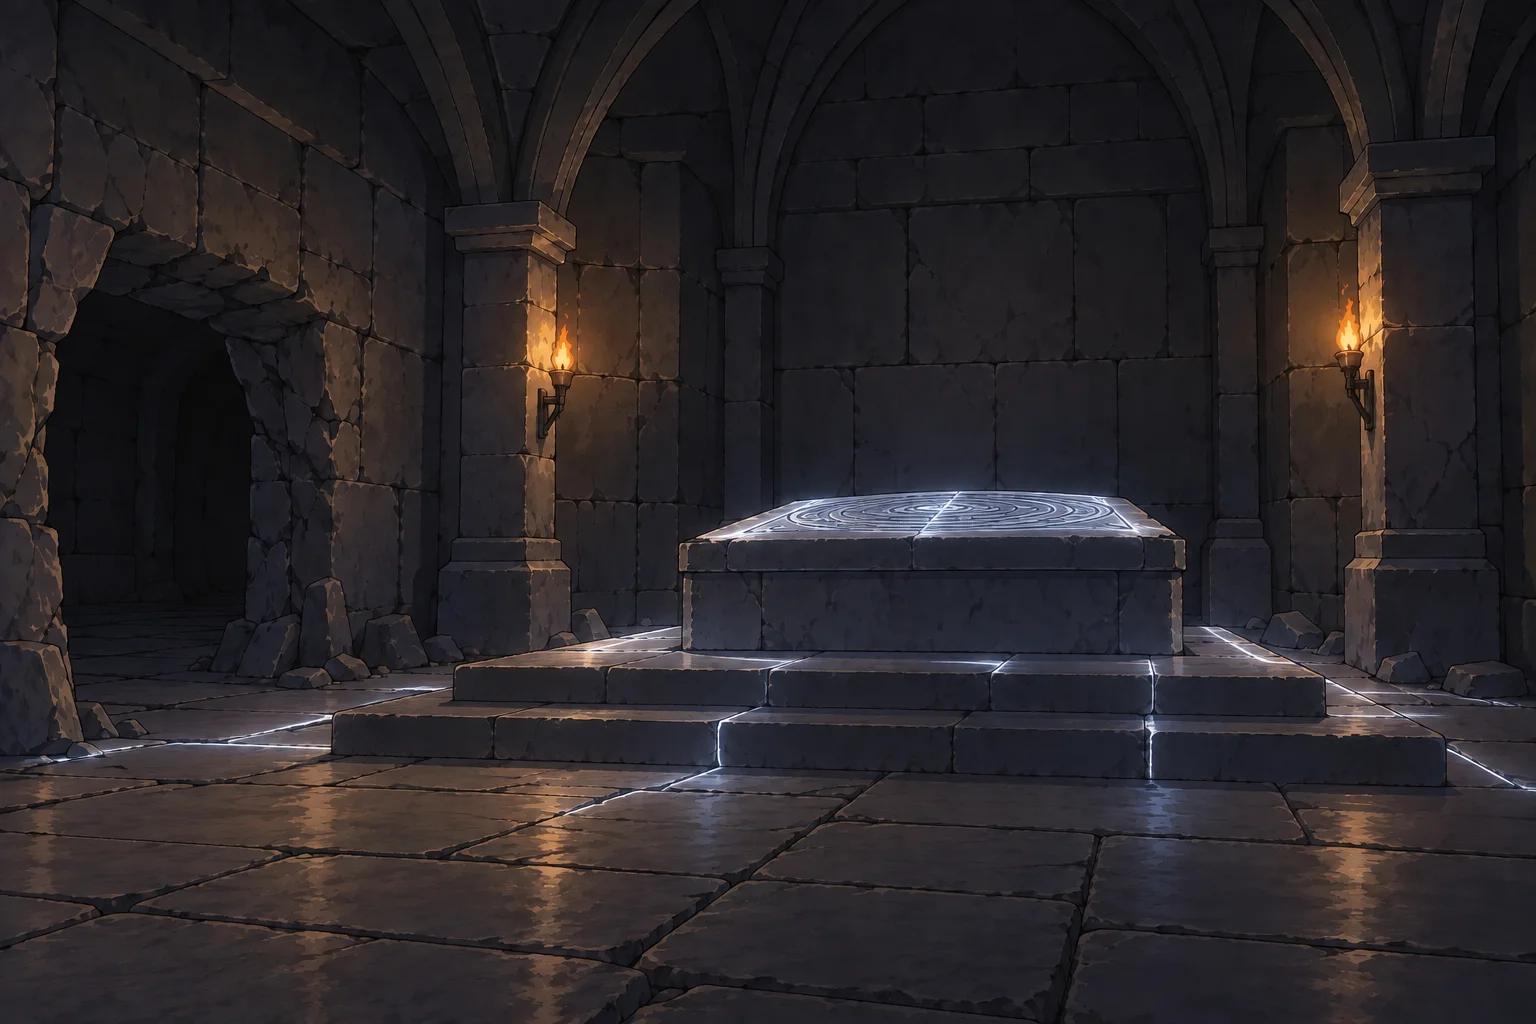
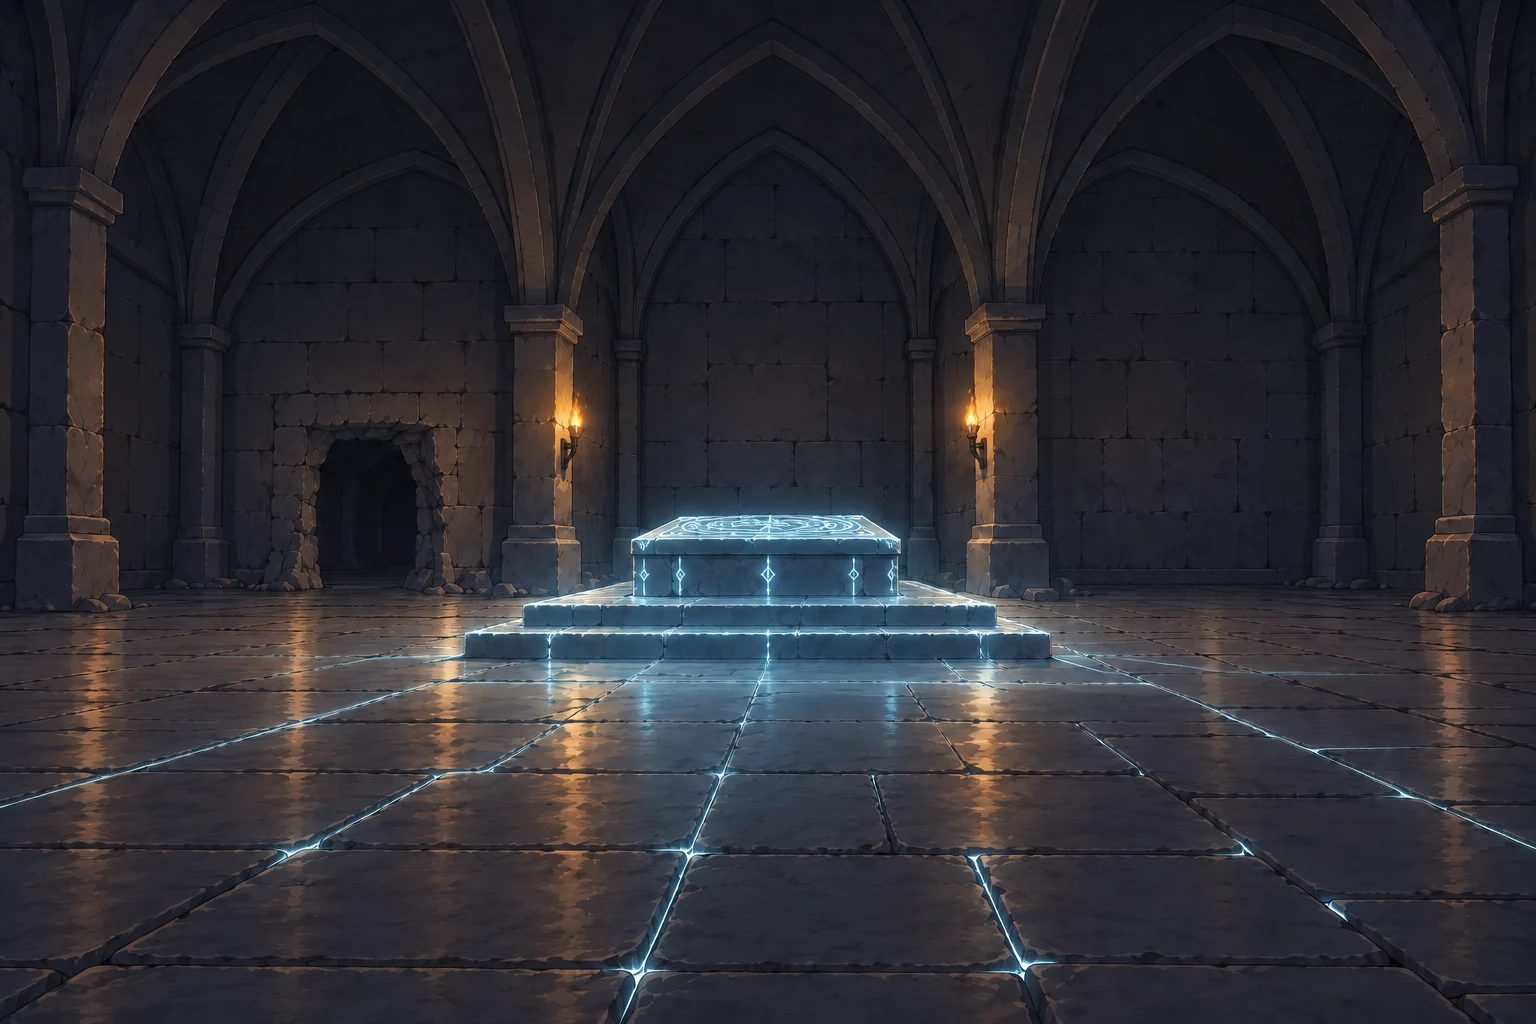
art(古墓): 石棺主室與底層祭壇差分對改畫成寬廣場地 —— 七張收齊
Ray：「底層祭壇也畫寬，記得啟動差分」「繼續跑完，祭壇點亮版不行就換串重下」

crypt（石棺主室）：1 出口 ⇒ 畫面上零通道。主棺在中央高台、四周小石棺，
四面全是實心砌石與塌方堆 —— 死胡同就要看起來走不出去。

lowaltar 差分對：點亮版在原串卡了十分鐘沒出，照憲法換串重下 ——
這次直接上傳新的寬廣 _off 當底，要它只加冷光。
構圖檢查：差異 >25 的像素 13.7%，而且全部集中在 y512~895（祭壇／台階／地縫），
拱頂與柱子那一帶只有 213~943 px ⇒ 構圖沒有被重畫，差分成立。
⚠ 兩張一起交：bgWhen 是在全白之下換圖的，只換一張構圖會跳一格。

⚠⚠⚠ 顆粒那一條我先前報錯了，已更正並寫進工單：
先前的「2.51／2.59 比舊那批高」是拿 PNG 母版去比既有的 webp，基準不同。
交件檔（webp q88）實測 0.72~1.15，校準 crypta 0.78／charnel 1.32 ⇒ 一致，
不必過 Gemini。量顆粒要量交件的那個檔。

⚠ 程式端：ASSET_VER 七列（清單在工單末）。節點資料一個字都不用動。

diff --git a/resources/background/_tomb_fill_worklist.md b/resources/background/_tomb_fill_worklist.md
@@ -214,11 +214,11 @@
 |---|---|---|
 | `tomb_vaultw` | ✔ 已交（寬廣石棺大廳） | `tomb_crypta` |
 | `tomb_bonepit` | ✔ 已交（寬廣骨室） | `tomb_charnel` |
-| `tomb_lowaltar_off` | ⏳ 圖好了，**壓著不交**（等點亮版） | **現行的 `tomb_lowaltar_off`**（祭壇造型不能變） |
-| `tomb_lowaltar` | ⏳ 同串衍生中 | 同上 |
+| `tomb_lowaltar_off` | ✔ 已交 | **現行的 `tomb_lowaltar_off`**（祭壇造型不能變） |
+| `tomb_lowaltar` | ✔ 已交（**從新的 `_off` 衍生**，構圖不變只加冷光） | 新的 `_off` |
 | `tomb_gallery3` | ✔ 已交（寬廣列柱大廳，**兩條通道**） | `tomb_crossing` |
 | `tomb_landing3` | ✔ 已交（寬廣列柱大廳＋左側大石階，**只有那一條路**） | `tomb_colonnade` |
-| `tomb_crypt` | ⏳ 生成中 | `tomb_crypta` |
+| `tomb_crypt` | ✔ 已交（主棺在中央高台，**零通道**） | `tomb_crypta` |
 
 > Ray（追加）：「玄室前廊 底層梯廳 石棺主室通通要畫大」
 
@@ -256,15 +256,34 @@
 白幕收掉那一刻玩家就會看到畫面跳一格。
 ⇒ 所以 `_on` **從新的 `_off` 衍生**，不是各生一張。
 
-## ⚠ 顆粒：這一批比舊那批高，還沒過 Gemini
+## ✔ 顆粒：交件檔與既有那批一致，**不必過 Gemini**
 
-平坦區高頻（憲法 §5 的量法，**有校準點**）：
+⚠⚠⚠ **我中途報錯過一次，留著當紀錄**：先前說「2.51／2.59，比舊那批高」——
+那是拿**PNG 母版**去比**既有的 webp**，**兩邊的基準不一樣**。
+交件檔（webp q88）實測：
 
-    新 vaultw   2.51      新 bonepit  2.59
-    校準 crypta 0.78      校準 charnel 1.32      舊 vaultw 0.99
+    vaultw 0.75   bonepit 0.89   gallery3 0.74   landing3 1.15
+    lowaltar_off 1.04   lowaltar 0.89   crypt 0.72
+    校準（既有已驗收）：crypta 0.78   charnel 1.32
 
-100% 裁切複核：**拱頂與牆面很乾淨，多出來的在大片地板的筆觸紋理上** ——
-讀起來是畫出來的石面，不是雜訊。依憲法 -930「寧可漏判也不要為了保險整批過 Gemini」
-先**照交**，要不要補一趟去顆粒由 Ray 看畫面決定。
+全部落在既有那批的範圍內 ⇒ **不必補 Gemini 去顆粒**。
 
-⚠ `ASSET_VER` 目前累積要加的：`tomb_vaultw`／`tomb_bonepit`／`tomb_gallery3`／`tomb_landing3`（都是 2）。
+⚠ **教訓**：量顆粒要量**交件的那個檔**，不要量母版 —— webp 編碼本身就會把細雜訊壓掉，
+而既有的校準點全部是 webp。基準不同的比較會得出相反的結論。
+
+
+
+
+## ⚠⚠⚠ 程式端要接：`config.js` 的 `ASSET_VER` 一共要加 **7 列**
+
+七張全部是**同名覆蓋**，不跳版號玩家的快取裡還是舊的窄圖，**畫面上不會有任何錯誤訊息**：
+
+    'tomb_vaultw':        2,
+    'tomb_bonepit':       2,
+    'tomb_gallery3':      2,
+    'tomb_landing3':      2,
+    'tomb_lowaltar':      2,
+    'tomb_lowaltar_off':  2,
+    'tomb_crypt':         2,
+
+⚠ 節點資料**一個字都不用動**（七張的基底名全部沒變，`bgWhen` 也照舊）。
